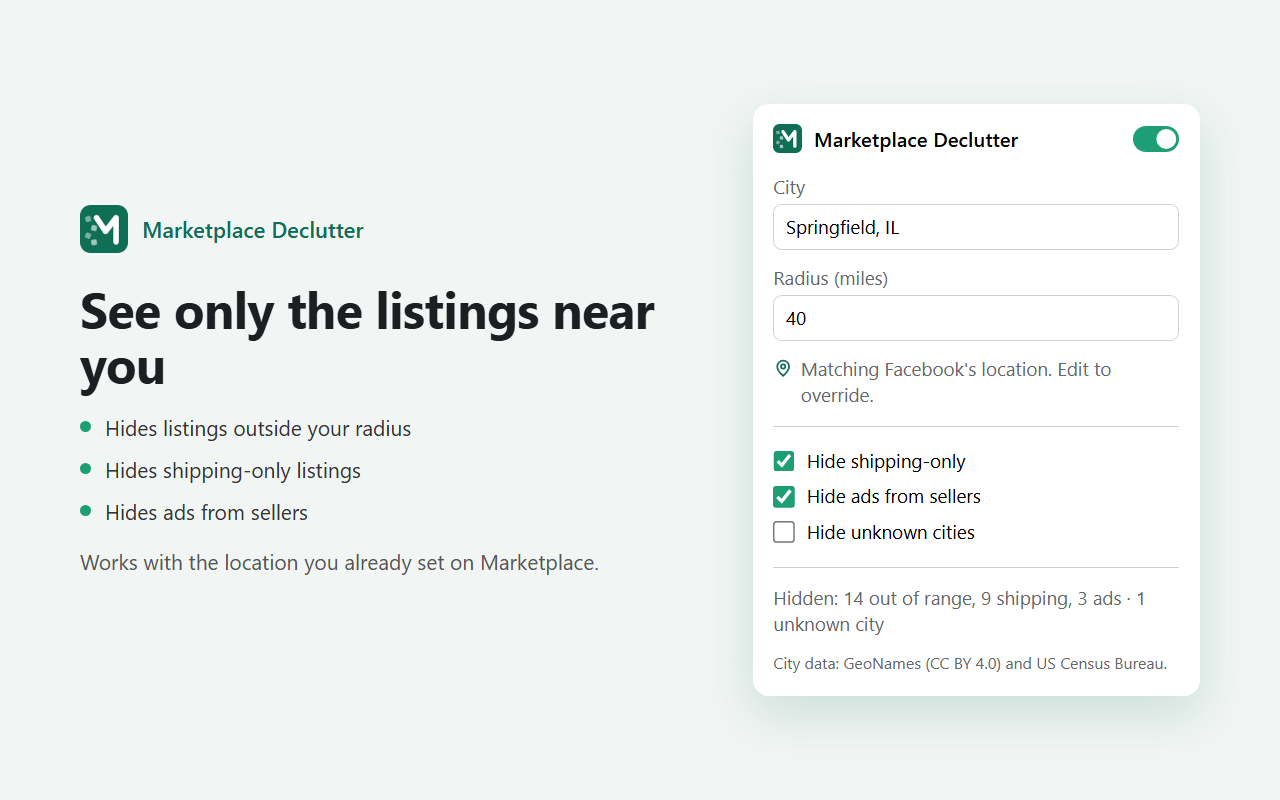
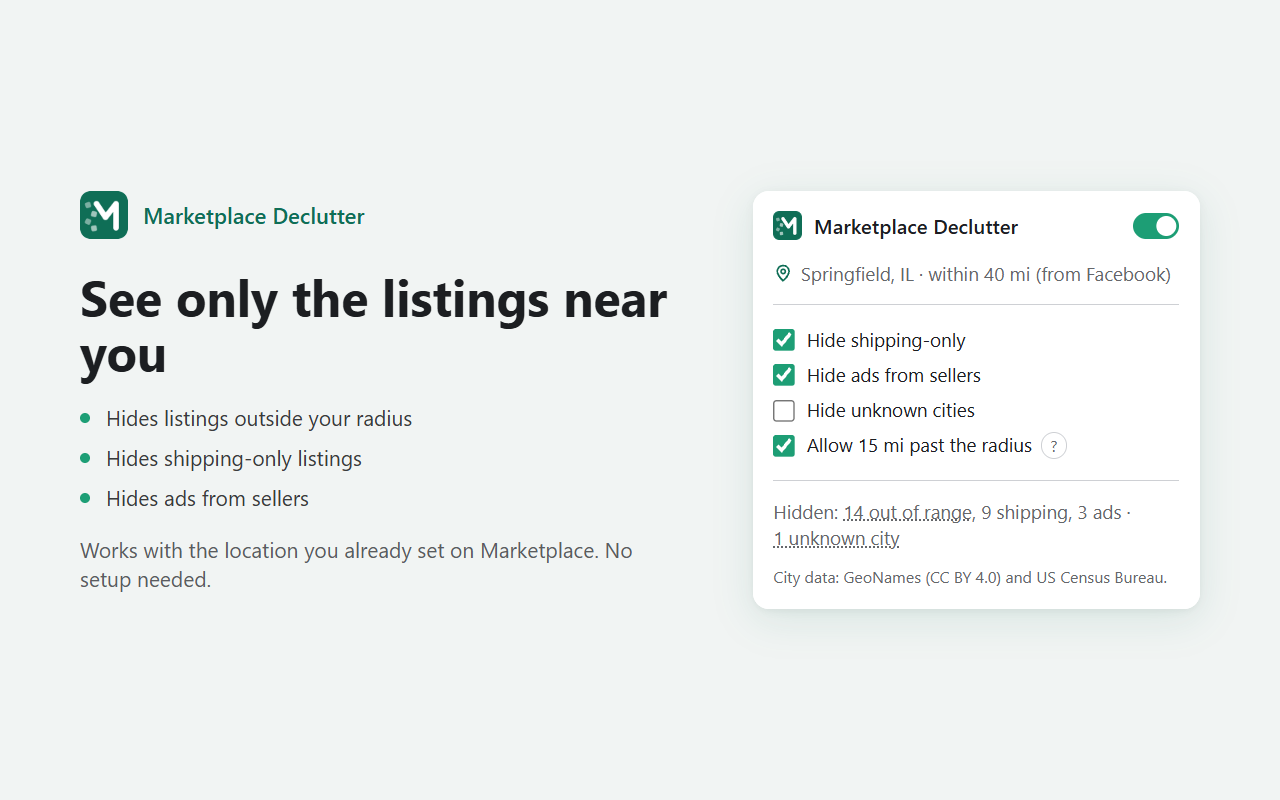
docs: store screenshots and privacy policy without the removed city and radius fields

diff --git a/PRIVACY.md b/PRIVACY.md
@@ -1,6 +1,6 @@
 # Privacy policy for Marketplace Declutter
 
-Effective date: 14 November 2026
+Effective date: 22 November 2026
 
 Marketplace Declutter is a browser extension that hides Facebook Marketplace
 listings that are outside your chosen radius, shipping-only, or seller ads.
@@ -33,9 +33,9 @@ deciding whether to hide them.
 
 Using the browser's extension storage, the extension saves:
 
-- your settings: whether it is on, the city and radius you typed (if any),
-  and whether to hide shipping-only listings, seller ads, and listings
-  with an unknown city;
+- your settings: whether it is on, whether to allow a 15-mile margin past
+  the radius, and whether to hide shipping-only listings, seller ads, and
+  listings with an unknown city;
 - the last location and radius read from Marketplace's location filter, so
   the next page can be filtered without waiting for it.
 
